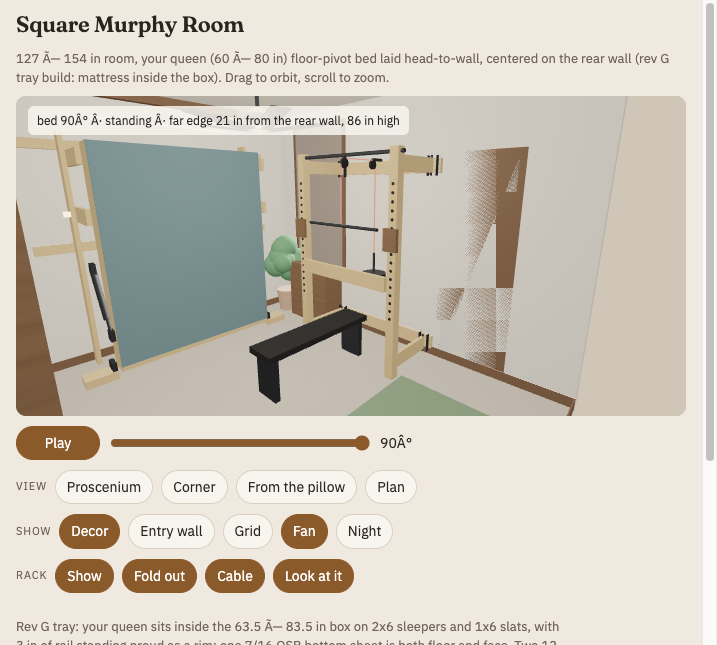
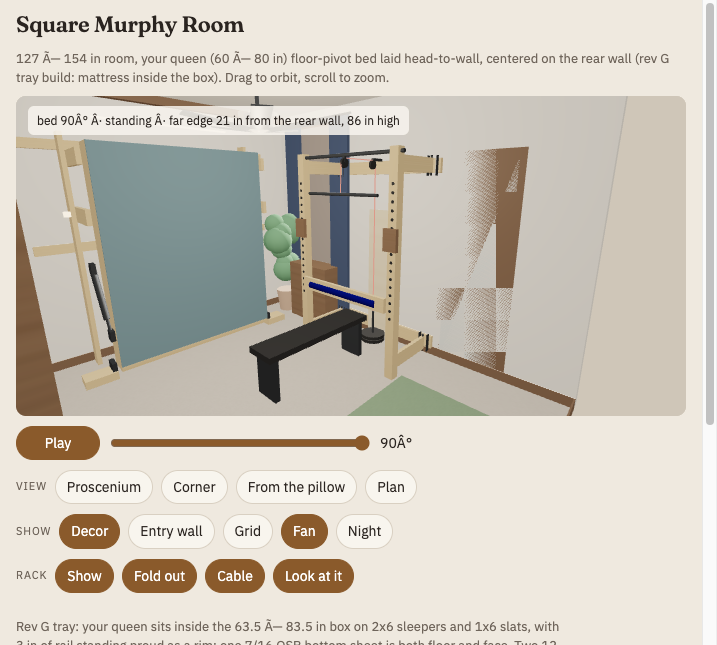
Cable mode: knee pad at 26 in, pin on the floor; blue comforter and curtains
Generated with [Claude Code](https://claude.ai/code)
via [Happy](https://happy.engineering)

Changed region(s): [[0.3682, 0.186, 0.5523, 0.5271], [0.9819, 0.6512, 1.0, 0.7132]]

diff --git a/murphy-k7x2/g/index.html b/murphy-k7x2/g/index.html
@@ -54,7 +54,7 @@ input[type=range]{width:min(260px,60vw);accent-color:var(--accent)}
   <div class="group"><span class="lbl">Rack</span>
     <button id="t-rack" class="on">Show</button><button id="t-rackout">Fold out</button><button id="t-cable">Cable</button><button id="v-rack">Look at it</button></div>
 </div>
-<p class="facts">Rev G tray: your queen sits inside the 63.5 × 83.5 in box on 2x6 sleepers and 1x6 slats, with 3 in of rail standing proud as a rim; one 7/16 OSB bottom sheet is both floor and face. Two 12 V linear actuators lift it. Bed down reaches <b>102.5 in</b> from the rear wall and leaves <b>51.5 in</b> to the entry wall. Standing it is <b>86 in</b> tall and <b>25 in</b> deep. The swing's highest point (86 in) is 21 in from the rear wall; under the fan it passes 18 in below the light glass (86 in) and 12 in below the 20 in blade tips. No headboard; the rails are the rim. Door and window positions are Meciah's tape measurements of 15 Nov 2026; the window's height is still assumed. <b>Squat rack:</b> a gate-style fold-flat rack on the right wall between the closet door and the window: two 4x4 posts on 21 in 2x6 arms that swing on 1/2 in hinge bolts from two 2x6 stringers lagged to the studs. Folded it is 5 in off the wall; out, the bar sits 28 in off the wall and 102 in from the rear wall, clear of the standing bed and the window. Use it with the bed up only. <b>Cable:</b> one DIY setup is drawn, a lat pulldown: pulley 1 under the pull-up pipe, pulley 2 on a bracket off the top stringer, the loading pin and plates hanging against the wall, your flat bench inside the rack with knees under the safety. Move pulley 2 to the bottom arm pin for a low row.</p>
+<p class="facts">Rev G tray: your queen sits inside the 63.5 × 83.5 in box on 2x6 sleepers and 1x6 slats, with 3 in of rail standing proud as a rim; one 7/16 OSB bottom sheet is both floor and face. Two 12 V linear actuators lift it. Bed down reaches <b>102.5 in</b> from the rear wall and leaves <b>51.5 in</b> to the entry wall. Standing it is <b>86 in</b> tall and <b>25 in</b> deep. The swing's highest point (86 in) is 21 in from the rear wall; under the fan it passes 18 in below the light glass (86 in) and 12 in below the 20 in blade tips. No headboard; the rails are the rim. Door and window positions are Meciah's tape measurements of 15 Nov 2026; the window's height is still assumed. <b>Squat rack:</b> a gate-style fold-flat rack on the right wall between the closet door and the window: two 4x4 posts on 21 in 2x6 arms that swing on 1/2 in hinge bolts from two 2x6 stringers lagged to the studs. Folded it is 5 in off the wall; out, the bar sits 28 in off the wall and 102 in from the rear wall, clear of the standing bed and the window. Use it with the bed up only. <b>Cable:</b> one DIY setup is drawn, a lat pulldown: pulley 1 under the pull-up pipe, pulley 2 on a bracket off the top stringer, the loading pin and plates hanging against the wall, your flat bench inside the rack. In cable mode the safety drops to the 26 in pins and wears a length of pipe insulation: that is the knee hold-down, like the pad on a gym pulldown. The loading pin rests on the floor between sets so plates go on standing up. Move pulley 2 to the bottom arm pin for a low row. Blue comforter and blue blackout curtains added; the rack stringers stop at 104 in so the stacked curtain clears them.</p>
 
 <script src="https://cdnjs.cloudflare.com/ajax/libs/three.js/r128/three.min.js"></script>
 <script>
@@ -92,7 +92,9 @@ const M = {
   pine:  new THREE.MeshStandardMaterial({map:woodTex('#d8ab6a','#7a4e22'), roughness:0.7}),
   ply:   new THREE.MeshStandardMaterial({map:woodTex('#e3c99a','#9a7a4a'), roughness:0.8}),
   walnut:new THREE.MeshStandardMaterial({map:woodTex('#5a3b26','#241509'), roughness:0.55}),
-  mural: new THREE.MeshStandardMaterial({color:0x3f5f6b, roughness:0.9}),   // painted face, plain placeholder
+  mural: new THREE.MeshStandardMaterial({color:0x3f5f6b, roughness:0.9}),
+  blue:  new THREE.MeshStandardMaterial({color:0x2e4a78, roughness:0.95}),   /* his blue comforter */
+  curtain:new THREE.MeshStandardMaterial({color:0x1c2740, roughness:1}),    /* blue blackout curtains */   // painted face, plain placeholder
   matt:  new THREE.MeshStandardMaterial({color:0xf1efe8, roughness:1}),
   linen: new THREE.MeshStandardMaterial({color:0xd8cfc0, roughness:1}),
   steel: new THREE.MeshStandardMaterial({color:0x3a3f45, roughness:0.4, metalness:0.7}),
@@ -161,7 +163,7 @@ for(const x of [1.5,20.5,39.5,boxAlong-3]) bbox(x,0,1.5, 1.5,5.5,boxOut-3, M.pin
 bbox(0,-0.44,axIn, boxAlong,0.44,boxOut-axIn, M.mural);                          // rev G: 7/16 OSB bottom sheet, floor and painted face, held back 2 in
 bbox(1.75,6.25,1.75, boxAlong-3.5,mattH,boxOut-3.5, M.matt);
 bbox(1.75,6.25+mattH,1.75, boxAlong-3.5,topH,boxOut-3.5, M.matt);
-bbox(2,6.25+mattH+topH,20, boxAlong-4,1.2,boxOut-22, M.linen);              // duvet
+bbox(2,6.25+mattH+topH,20, boxAlong-4,1.2,boxOut-22, M.blue);              // blue comforter
 [4,33].forEach(x=>bbox(x,6.25+mattH+topH,3, 26,5,18, M.white));              // pillows at the headboard end
 for(const x of [-1.5,boxAlong]) bbox(x,axUp-2,axIn+actOut-2, 1.5,4,4, M.steel);   // actuator angles on the end rails
 const eye=new THREE.Mesh(new THREE.TorusGeometry(0.01,0.005,4,4),M.steel); eye.visible=false; bed.add(eye);
@@ -179,6 +181,8 @@ box(decor, 0.2,100,0, 12,36,72, M.walnut);                                      
 for(let i=1;i<5;i++) box(decor, 0.4,101,i*14.4, 11.6,34,0.8, M.pine,false);      // shelves
 for(let i=0;i<14;i++){ const s=i*2.4; box(decor, 1.5,102+s,14.4*(1+(i%3))+0.8, 9,2,8+Math.random()*3, new THREE.MeshStandardMaterial({color:new THREE.Color().setHSL(Math.random(),0.35,0.45),roughness:0.9}),false); }
 box(decor, R.X-12.2,106,0, 12,28,30, M.walnut);                                  // low cabinet, moved under the window to clear the rack
+{ const rod=new THREE.Mesh(new THREE.CylinderGeometry(0.5,0.5,52,10),M.black); rod.rotation.x=Math.PI/2; rod.position.copy(P(R.X-3.5,winY0+17.5,winTop+3)); decor.add(rod);   /* curtain rod, 8 in past the glass each side */
+  box(decor, R.X-3.2,winY0-6,2, 1.6,12,winTop+1, M.curtain); box(decor, R.X-3.2,winY0+29,2, 1.6,12,winTop+1, M.curtain); }   /* blue blackout panels stacked open beside the glass; closed they meet in the middle */
 const pot=new THREE.Mesh(new THREE.CylinderGeometry(6,4.5,12,20),M.pot); pot.position.copy(P(R.X-9,R.Y-12,6)); pot.castShadow=true; decor.add(pot);
 for(let i=0;i<9;i++){ const l=new THREE.Mesh(new THREE.SphereGeometry(5+Math.random()*4,10,8),M.leaf); l.position.copy(P(R.X-9+(Math.random()-0.5)*12, R.Y-12+(Math.random()-0.5)*10, 24+Math.random()*26)); l.castShadow=true; decor.add(l); }
 box(decor, -0.4,44,36, 0.6,48,36, M.white,false);                                // whiteboard, bathroom wall
@@ -191,7 +195,7 @@ const grid=new THREE.Group(); scene.add(grid); grid.visible=false;
 
 // ---------- fold-flat squat rack on the right wall (gate style: each post swings on a hinge line at the wall) ----------
 const rack=new THREE.Group(); scene.add(rack);
-const rkY=[55,103], rkArm=21, rkPost=3.5, rkStrY0=52, rkStrL=54;
+const rkY=[55,103], rkArm=21, rkPost=3.5, rkStrY0=52, rkStrL=52;   /* stringers 52 to 104: the curtain stack starts at 105 */
 [76,3].forEach(z=>box(rack, R.X-1.5,rkStrY0,z, 1.5,rkStrL,5.5, M.pine));          // two 2x6 x 54 in stringers, lagged into every stud
 const gates=rkY.map((hy,i)=>{ const g=new THREE.Group(); g.position.copy(P(R.X-3.25,hy,0)); rack.add(g);   /* hinge pin 1-3/4 in off the stringer face so the folded post clears the stringer */
   const L=(x,y,z,dx,dy,dz,m)=>box(g, x,y,z, dx,dy,dz, m);                         /* local plan coords, hinge at the origin, the room is toward -x */
@@ -206,21 +210,23 @@ const rkPostX=R.X-3.25-rkArm-rkPost, barX=rkPostX-1.5+0.6, barZ=54.6;
 const barParts=[];
 { const bar=new THREE.Mesh(new THREE.CylinderGeometry(0.55,0.55,84,14),M.steel); bar.rotation.x=Math.PI/2; bar.position.copy(P(barX,79,barZ)); rackLoad.add(bar); barParts.push(bar);
   for(const y of [40.5,42.2,115.8,117.5]){ const pl=new THREE.Mesh(new THREE.CylinderGeometry(8.85,8.85,1.4,28),M.black); pl.rotation.x=Math.PI/2; pl.position.copy(P(barX,y,barZ)); pl.castShadow=true; rackLoad.add(pl); barParts.push(pl); }   /* four 45s */
-  box(rackLoad, rkPostX-1.5, rkY[0]+rkPost/2, 34, 1.5,rkY[1]-rkY[0]-rkPost,5.5, M.pine);   /* 2x6 safety on edge, resting on pins at 34 in */
+  const safety=box(rackLoad, rkPostX-1.5, rkY[0]+rkPost/2, 34, 1.5,rkY[1]-rkY[0]-rkPost,5.5, M.pine); rackLoad.userData.safety=safety; rackLoad.userData.safetyY0=safety.position.y;   /* 2x6 safety on edge, resting on pins at 34 in */
   const pu=new THREE.Mesh(new THREE.CylinderGeometry(0.67,0.67,rkY[1]-rkY[0]+6,12),M.steel); pu.rotation.x=Math.PI/2; pu.position.copy(P(rkPostX+rkPost/2,79,82.5)); rackLoad.add(pu); }   /* 1-1/4 in pipe pull-up bar dropped into the post tops */
 /* DIY cable, one setup shown: lat pulldown. Pulley 1 hangs under the pull-up pipe, pulley 2 on a 6 in bracket off the top stringer; the plates hang against the wall, the lifter sits on the flat bench inside the rack with knees under the safety. */
 const cable=new THREE.Group(); rackLoad.add(cable); cable.visible=false;
-{ const cy=79, pipeX=rkPostX+rkPost/2, p1z=79.6, p2x=118, p2z=79.6, hx=pipeX-2.2, hz=56, pinX=p2x+1.8;
+{ const cy=79, pipeX=rkPostX+rkPost/2, p1z=79.6, p2x=118, p2z=79.6, hx=pipeX-2.2, hz=68, pinX=p2x+1.8;
   const pulley=(x,z)=>{ const p=new THREE.Mesh(new THREE.CylinderGeometry(1.8,1.8,1,24),M.black); p.rotation.x=Math.PI/2; p.position.copy(P(x,cy,z)); cable.add(p); };
   pulley(pipeX,p1z); box(cable, pipeX-0.5,cy-0.6,p1z,1,1.2,2.9, M.steel,false);                      /* pulley 1 and its hanger on the pipe */
   pulley(p2x,p2z); box(cable, p2x,cy-0.6,p2z+1.6, R.X-3.25-p2x,1.2,1, M.steel,false);               /* pulley 2 on a bracket from the top stringer */
-  const pts=[P(hx,cy,hz),P(pipeX-1.8,cy,p1z),P(pipeX,cy,p1z+1.8),P(p2x,cy,p2z+1.8),P(pinX,cy,p2z),P(pinX,cy,42)];
+  const pts=[P(hx,cy,hz),P(pipeX-1.8,cy,p1z),P(pipeX,cy,p1z+1.8),P(p2x,cy,p2z+1.8),P(pinX,cy,p2z),P(pinX,cy,14)];
   cable.add(new THREE.Line(new THREE.BufferGeometry().setFromPoints(pts), M.rope));                   /* 1/4 in rope */
   const lat=new THREE.Mesh(new THREE.CylinderGeometry(0.6,0.6,36,12),M.steel); lat.rotation.x=Math.PI/2; lat.position.copy(P(hx,cy,hz)); cable.add(lat);   /* lat bar */
-  const pin=new THREE.Mesh(new THREE.CylinderGeometry(0.5,0.5,14,10),M.steel); pin.position.copy(P(pinX,cy,35)); cable.add(pin);                            /* loading pin */
-  for(const z of [30.5,32.2]){ const pl=new THREE.Mesh(new THREE.CylinderGeometry(5.5,5.5,1.4,24),M.black); pl.position.copy(P(pinX,cy,z)); pl.castShadow=true; cable.add(pl); }   /* two 25s */
+  const pin=new THREE.Mesh(new THREE.CylinderGeometry(0.5,0.5,14,10),M.steel); pin.position.copy(P(pinX,cy,7.5)); cable.add(pin);                            /* loading pin resting on the floor between reps, so plates go on standing up */
+  box(cable, R.X-2.2,cy-7,0.5, 0.7,14,60, M.ply,false);                                                                                                    /* 1x4 slide board on the wall so the plates never touch drywall */
+  const pad=new THREE.Mesh(new THREE.CylinderGeometry(1.6,1.6,36,14),new THREE.MeshStandardMaterial({color:0x444,roughness:1})); pad.rotation.x=Math.PI/2; pad.position.copy(P(rkPostX-0.75,cy,28.5)); cable.add(pad);   /* pipe insulation on the safety: the knee pad */
+  for(const z of [1.5,3.2]){ const pl=new THREE.Mesh(new THREE.CylinderGeometry(5.5,5.5,1.4,24),M.black); pl.position.copy(P(pinX,cy,z)); pl.castShadow=true; cable.add(pl); }   /* two 25s */
   box(cable, 60,cy-6,15.5, 48,12,2.2, M.black); [62,104].forEach(x=>box(cable, x,cy-5,0, 2,10,15.5, M.steel));   /* his flat bench, slid in under the safety */ }
-function setCable(on){ cable.visible=on; barParts.forEach(m=>m.visible=!on); }
+function setCable(on){ cable.visible=on; barParts.forEach(m=>m.visible=!on); const sf=rackLoad.userData.safety; sf.position.y=rackLoad.userData.safetyY0+(on?-8:0); }   /* cable mode drops the safety to the 26 in pins: it is the knee hold-down */
 let foldF=0, foldT=0;
 function setFold(f){ foldF=f; gates.forEach(g=>g.rotation.y=g.userData.dir*(1-f)*Math.PI/2); rackLoad.visible=f>0.98; }
 setFold(0);

diff --git a/murphy-k7x2/g/rack/index.html b/murphy-k7x2/g/rack/index.html
@@ -31,7 +31,7 @@ ul,ol{padding-left:20px}
 <div class="two"><div><img src="rack_out.png" alt="Rack folded out with the bar racked, bed standing"><div class="m" style="color:var(--mute);font-size:13px">Out: bar on the J-blocks at 54 in, safety at 34 in, pull-up pipe at 82 in. Bed standing on the left.</div></div>
 <div><img src="rack_folded.png" alt="Rack folded flat against the right wall"><div class="m" style="color:var(--mute);font-size:13px">Folded: both posts swing inward and lie flat between the hinge lines, 5 in off the wall.</div></div></div>
 
-<img src="rack_cable.png" alt="DIY lat pulldown on the rack with the bench inside"><div style="color:var(--mute);font-size:13px;margin:4px 0 12px">The DIY cable, one setup: pulley 1 under the pull-up pipe, pulley 2 on a 6 in bracket off the top stringer, loading pin and plates against the wall, lat bar over the bench, knees under the safety. In the room model: Rack, Fold out, Cable, Look at it.</div>
+<img src="rack_cable.png" alt="DIY lat pulldown on the rack with the bench inside"><div style="color:var(--mute);font-size:13px;margin:4px 0 12px">The DIY cable, one setup: pulley 1 under the pull-up pipe, pulley 2 on a 6 in bracket off the top stringer, loading pin resting on the floor against a 1x4 slide board (plates go on standing up), lat bar over the bench, the safety dropped to the 26 in pins and wrapped in pipe insulation as the knee hold-down. In the room model: Rack, Fold out, Cable, Look at it.</div>
 
 <h2>1. Where it goes and why</h2>
 <p>The only wall with a clear 54 in run that the bed never touches is the right wall between the closet door casing (51 in from the entry wall) and the window (105 in). The stringers sit at 52 to 106 in. Out, the bar hangs 28 in off that wall, which is 8 in clear of the bed box when the bed is <b>down</b> and 30 in clear of the standing bed. You cannot lift with the bed down (no room to walk the bar out), so this is a bed-up station, and with the bed up the whole 127 x 129 in floor is yours. The low cabinet moves from under the rack to under the window (it is 30 in tall; the window sill height is still unmeasured, so check it clears).</p>
@@ -104,7 +104,7 @@ ul,ol{padding-left:20px}
 <div class="wrap"><table>
 <tr><th>Option</th><th>What it gives</th><th>Cost now</th><th>Space</th><th>Verdict</th></tr>
 <tr><td>7 ft Olympic bar plus iron plates (used)</td><td>Squat, bench, deadlift, row, press to any load; plates also load dumbbell handles and a cable pin</td><td>Bar $50 to $75; 200 lb of plates $100 to $150</td><td>Bar stands in the corner behind the folded post; plates on a 10 in pipe peg pair on the bottom stringer, zero floor</td><td>Buy. Cheapest pound-for-pound load there is, and the rack exists for it</td></tr>
-<tr><td>DIY cable on the pull-up pipe</td><td>Lat pulldown, seated row, triceps, face pulls, cable curls, using the same plates on a loading pin</td><td>Two 90 mm pulleys with brackets $6 (Warr Acres listing), 25 ft of 3/16 cable or 1/4 rope $12, loading pin $15, handle $10: about $45</td><td>Hangs on the pipe when out, bags up when folded</td><td>Buy. This is the "cheap cables" answer, and it is better than any $150 used pulldown tower because it uses plates you already own</td></tr>
+<tr><td>DIY cable on the pull-up pipe (safety checks: pulley 1 sees twice the rope tension, 300 lb at a 150 lb pull, same as the pull-up case the pipe was sized for; the stringer bracket sees 150 lb each way into the lags; use 1/4 in rope rated 1,000 lb or more, or 3/16 cable with thimbles; the knee pad is the 2x6 safety on pins, which cannot lift)</td><td>Lat pulldown, seated row, triceps, face pulls, cable curls, using the same plates on a loading pin</td><td>Two 90 mm pulleys with brackets $6 (Warr Acres listing), 25 ft of 3/16 cable or 1/4 rope $12, loading pin $15, handle $10: about $45</td><td>Hangs on the pipe when out, bags up when folded</td><td>Buy. This is the "cheap cables" answer, and it is better than any $150 used pulldown tower because it uses plates you already own</td></tr>
 <tr><td>Resistance bands, 5-band set with handles and door anchor</td><td>10 to 150 lb, banded squats and bench off the bottom arms (loop over the 3/4 in pins), rehab and warm-up</td><td>$30 to $40 new</td><td>A hook on the wall</td><td>Buy. Already on your gym list</td></tr>
 <tr><td>Loadable Olympic dumbbell handles</td><td>Dumbbells to 80 lb a hand from the same plates</td><td>$30 to $40 a pair new, or the $130 OKC bar-and-handles listing</td><td>Two handles on the plate peg</td><td>Buy instead of the Yes4All set: same plates, more range, $100 less</td></tr>
 <tr><td>Dip belt</td><td>Weighted pull-ups and dips with plates</td><td>$15 to $20</td><td>Hook</td><td>Buy later</td></tr>
